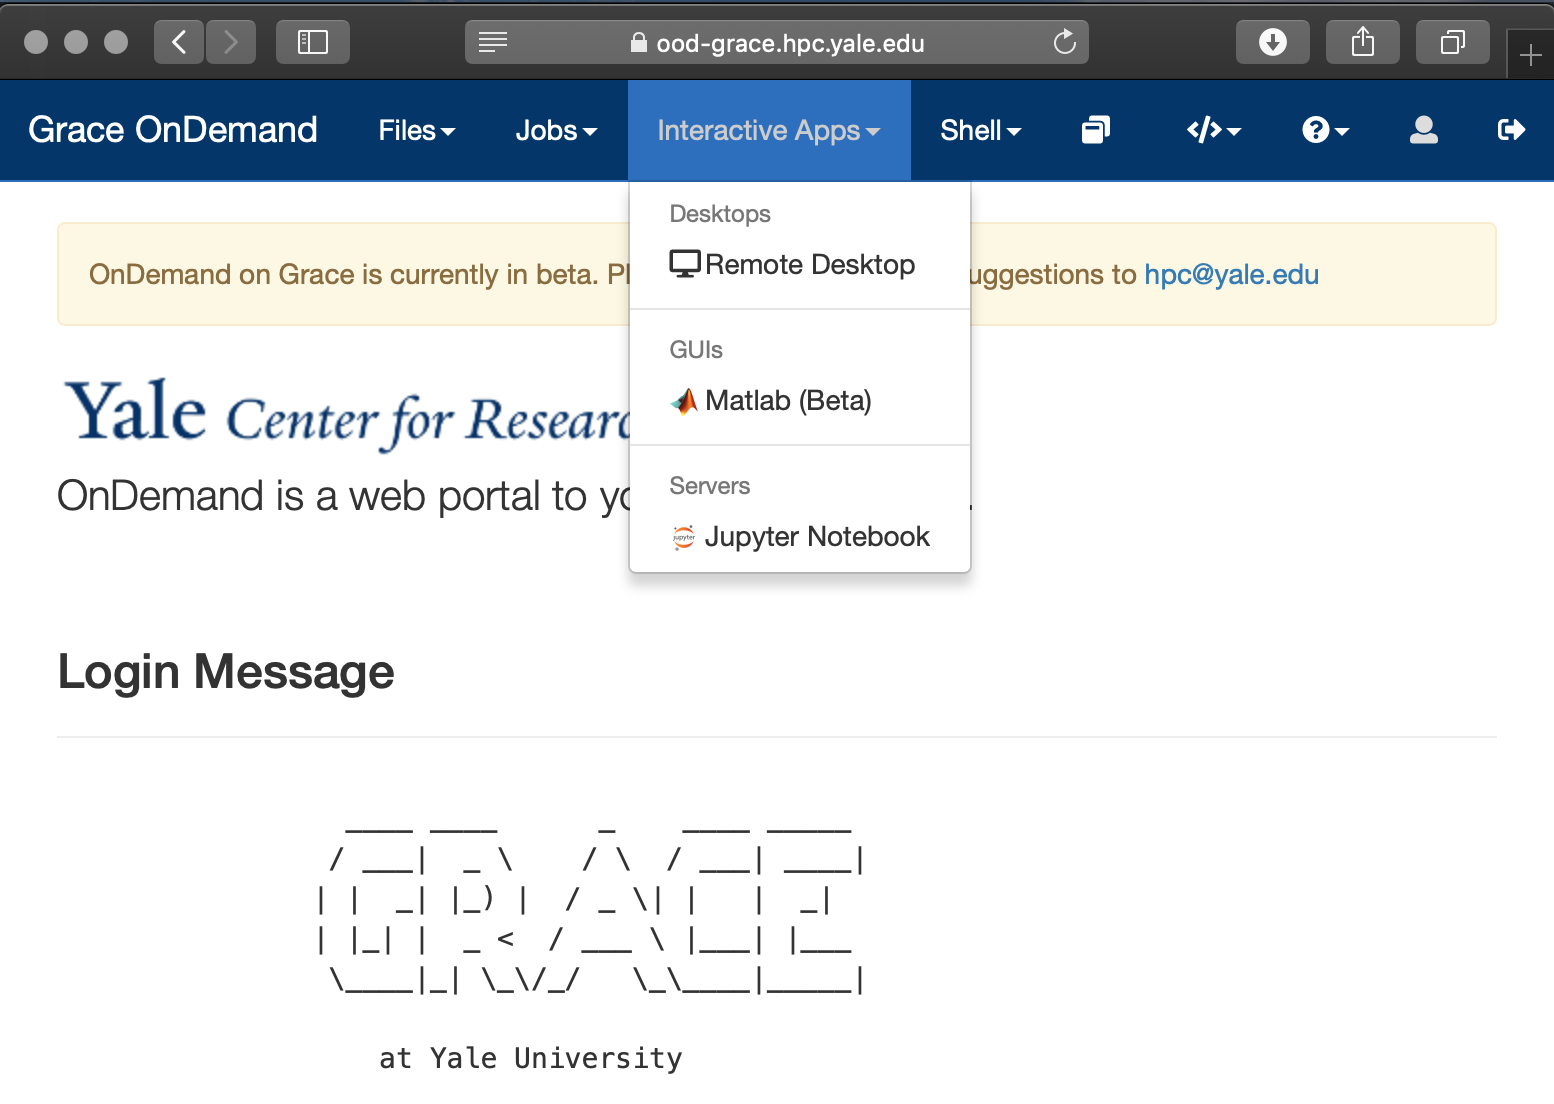
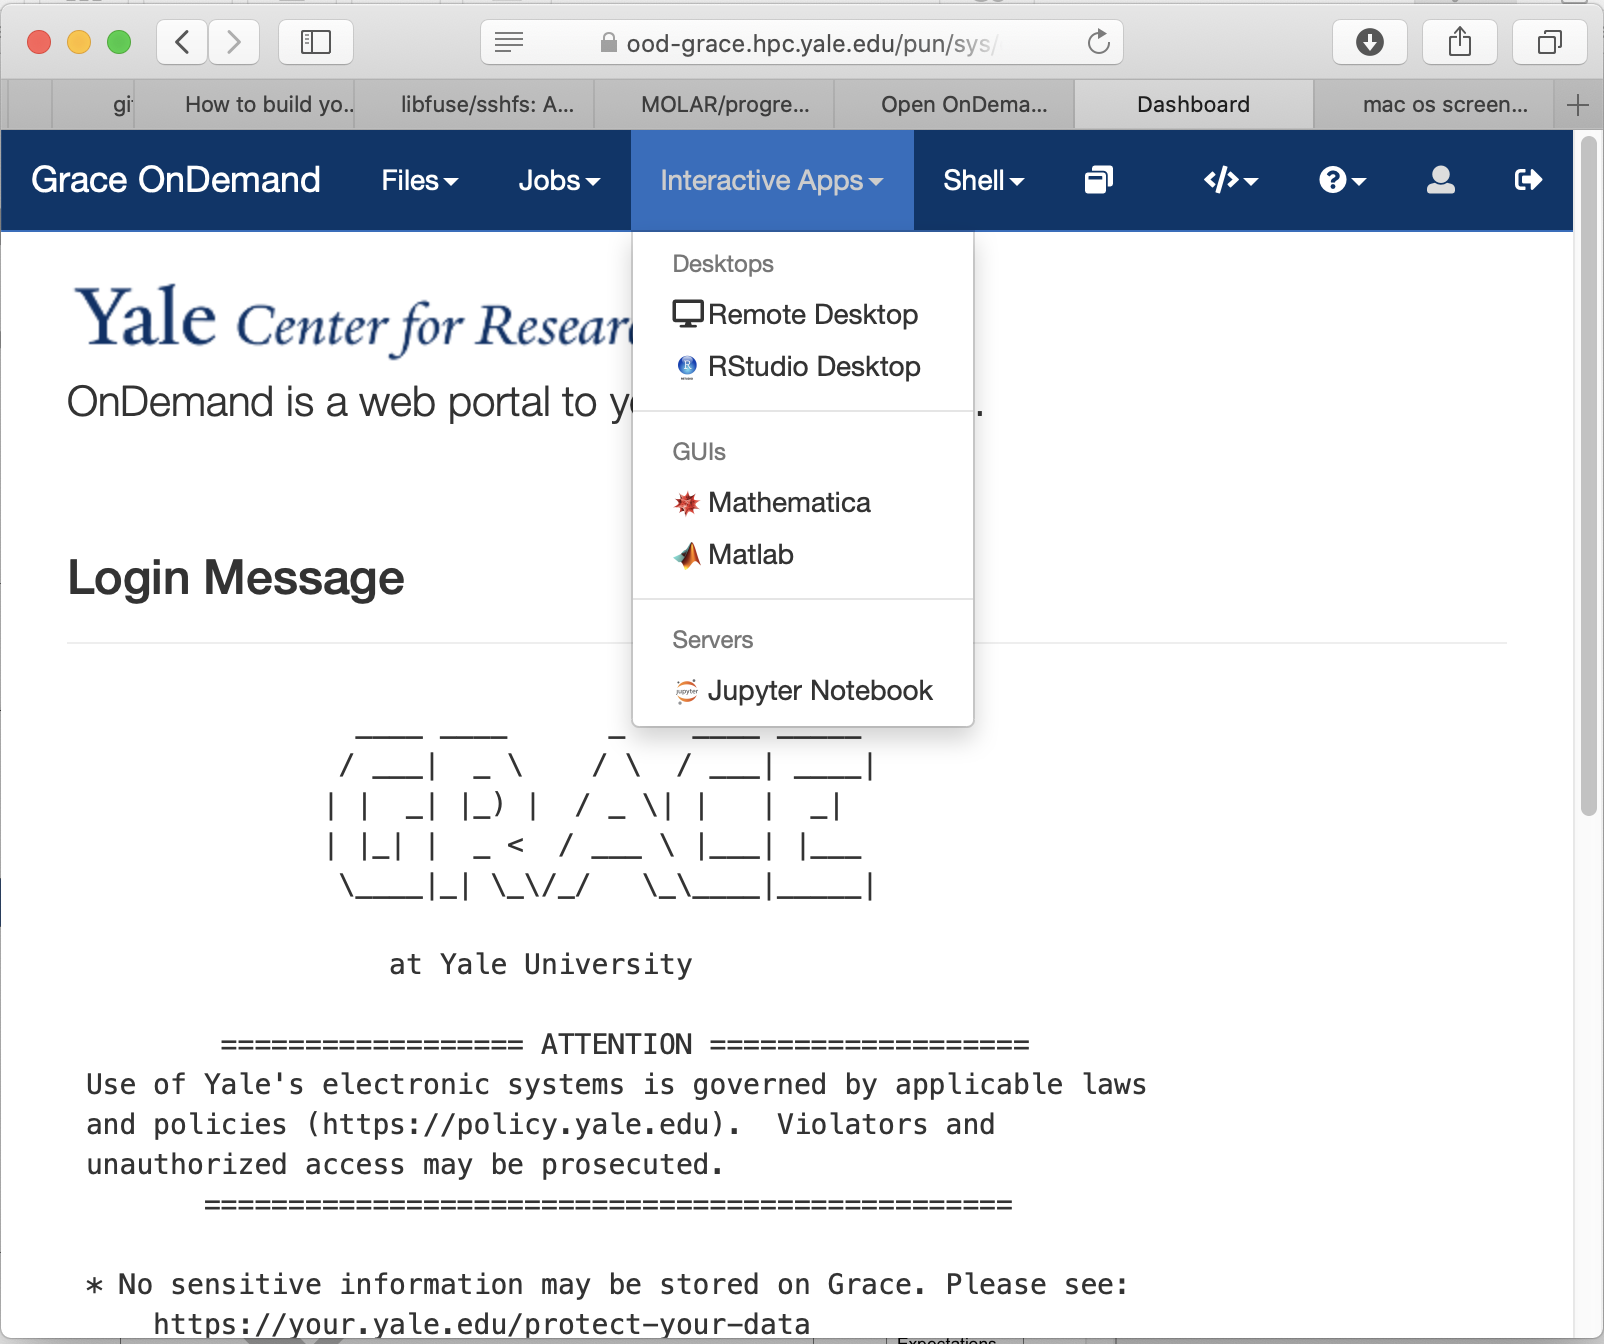
add RStudio Desktop

diff --git a/docs/clusters-at-yale/access/ood.md b/docs/clusters-at-yale/access/ood.md
@@ -4,6 +4,18 @@ We have recently built a new way to access the clusters called [Open OnDemand](h
 This is a web-portal that provides a shell, file browser, and graphical interface for certain apps (like Jupyter or MATLAB).
 Currently, this is only available for Farnam and Grace.
 
+On this page:
+
+* [Access](#Access)
+* [File Browser](#File-Browser)
+* [Shell](#Shell)
+* [Remote Desktop](#Remote-Desktop)
+* [Interactive Apps](#Interactive-Apps)
+    * [Jupyter Notebooks](#Jupyter-Notebooks)
+    * [RStudio Desktop](#RStudio-Desktop)
+
+## <a name="Access"></a>Access
+
 To get started, navigate to either
 
 ```
@@ -18,12 +30,13 @@ You will then be greeted with a welcome page showing the standard Message of the
 
 Along the top are a pull-down menus for a File Browser, a Job Builder, a list of Interactive Apps, and a Shell.
 
-## File Browser
+## <a name="File-Browser"></a>File Browser 
+
 ![file_browser](/img/ood_filebrowser.png)
 The file browser is a graphical interface to manage, upload, and download files from the clusters.
-You can drag and drop files, download entire directories, and also move files between directories all from within the web browser.
+You can drag and drop files, download entire directories, and also move files between directories all from within the web browser. You can also view and edit files from the browser. 
 
-## Shell
+## <a name="Shell"></a>Shell
 
 You can launch a traditional command-line interface to the cluster using the Shell pull-down menu.
 This opens a terminal in a web-broswer that you can use in the exact same way as when logging into the cluster via SSH.
@@ -32,7 +45,7 @@ This opens a terminal in a web-broswer that you can use in the exact same way as
 
 This is a convenient way to access the clusters from a computer that does not have a terminal program. 
 
-## Remote Desktop
+## <a name="Remote-Desktop"></a>Remote Desktop
 Occasionally, it is helpful to use a graphical interface to explore data or manage certain programs.
 In this case, users have typically utilized VNC or X11 forwarding.
 Both of these tools have complications, either in complexity of setup or in performance.
@@ -46,25 +59,25 @@ Once you launch the job, you will be presented with a notification that your job
 Depending on the resources requested, your job should be scheduled in a minute or so.
 Then you will see the option to launch the Remote Desktop:
 
-![starting](/img//ood_remote_starting.png)
+![starting](/img/ood_remote_starting.png)
 
 After you click on Launch Remote Desktop, a standard desktop interface will open in a new tab:
 
-![desktop](/img//ood_remote_desktop.png)
+![desktop](/img/ood_remote_desktop.png)
 
 From here you can launch any graphical program that you might need.
 
-## Interactive apps
+## <a name="Interactive-Apps"></a>Interactive Apps
 
 We have deployed a selection of common graphical programs as Interactive Apps on Open OneDemand.
-Currently, we have apps for Matlab, Jupyter Notebook, and Mathematica.
+Currently, we have apps for Matlab, RStudio, Jupyter Notebook, and Mathematica.
 We are working to develop more apps in the future.
-The process for launching each of these is very similar, so we will focus on one of them (Jupyter Notebooks) as an example.
+The process for launching each of these is very similar, so we will focus on two of them (Jupyter Notebooks and RStudio) as two examples.
 
-### Jupyter Notebooks
+### <a name="Jupyter-Notebooks"></a>Jupyter Notebooks
 
 One of the most common uses of Open OnDemand is the Jupyter Notebook interface for Python and R.
-[Jupyter Notebooks](https://jupyter-notebook.readthedocs.io/en/stable/) are a flexible way to interactively work with code and plots presented in-line together.
+[Jupyter Notebooks](https://jupyter-notebook.readthedocs.io/en/stable/) provide a flexible way to interactively work with code and plots presented in-line together.
 
 To launch a Jupyter session through Open OnDemand, click on the Interactive Apps pull-down menu and select Jupyter Notebook:
 
@@ -76,7 +89,19 @@ Make sure to select one that has jupyter installed (follow the steps [here](../g
 
 ![jupyter_request](/img/ood_jupyter.png)
 
-After specifying the required resources (number of CPUs/GPUs, amount of RAM, etc.), the job will be scheduled and will launch when it's ready.
+After specifying the required resources (number of CPUs/GPUs, amount of RAM, etc.), the job will be scheduled and will launch when it is ready.
 This will open the standard Jupyter interface where you can start working with notebooks.
 
 ![jupyter_running](/img/ood_jupyter_running.png)
+
+
+### <a name="RStudio-Desktop"></a>RStudio Desktop
+
+Another useful app provided by Open OnDemand is RStudio Desktop. To use the App, you need to select an RStudio version and an R version, among other resource requirements for your job.
+
+![rstudio_request](/img/ood_rstudio.png)
+
+Once your job starts runing, you will see a button 'Launch Rstudio Desktop'. Click the button and RStudio Desktop will be opened in the browser.
+
+![rstudio_running](/img/ood_rstudio_running.png)
+

diff --git a/docs/clusters-at-yale/guides/jupyter.md b/docs/clusters-at-yale/guides/jupyter.md
@@ -17,16 +17,7 @@ You can then load this environment for jupyter where we indicate below.
 
 ## Open OnDemand
 
-On [Grace](/clusters-at-yale/clusters/grace) and [Farnam](/clusters-at-yale/clusters/farnam.md) we run a web portal to the clusters which can also run a jupyter notebook for you. You can access the jupyter app via [ood-grace.hpc.yale.edu](https://ood-grace.hpc.yale.edu/pun/sys/dashboard/batch_connect/sys/bc_ycrc_jupyter/session_contexts/new) or [ood-farnam.hpc.yale.edu](https://ood-farnam.hpc.yale.edu/pun/sys/dashboard/batch_connect/sys/bc_ycrc_jupyter/session_contexts/new)
-
-### Job Setup
-
-In the job submission form there is a text area called "Environment Setup (drag text area to enlarge)". Here you must enter the commands that activate an environment with `jupyter` in it. We make a default available, but if you want to use any specialized software you should create a new conda environment and activate it here. For example, if you ran the command above, you would paste the following into the text box:
-
-``` bash
-module load miniconda
-source activate notebook_env
-```
+On [Grace](/clusters-at-yale/clusters/grace) and [Farnam](/clusters-at-yale/clusters/farnam.md) we run a web portal to the clusters which can also run a jupyter notebook for you. Please check the [OOD Jupyter Notebook user guide](/clusters-at-yale/access/ood/#Jupyter-Notebooks) for more information.
 
 ## Traditional Method
 
